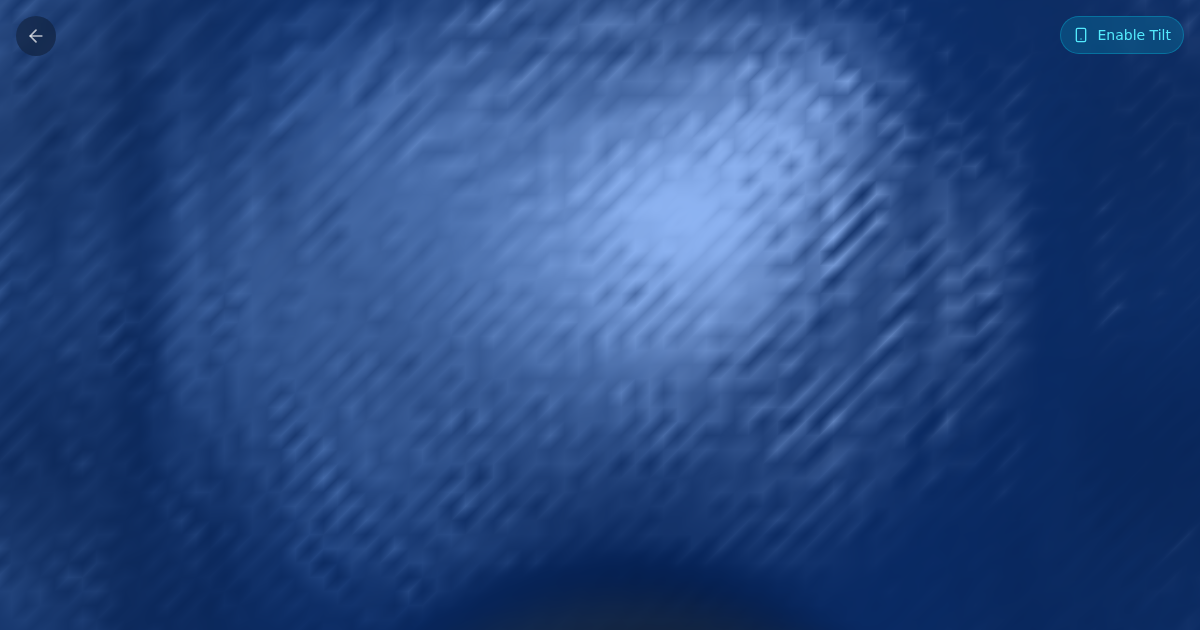
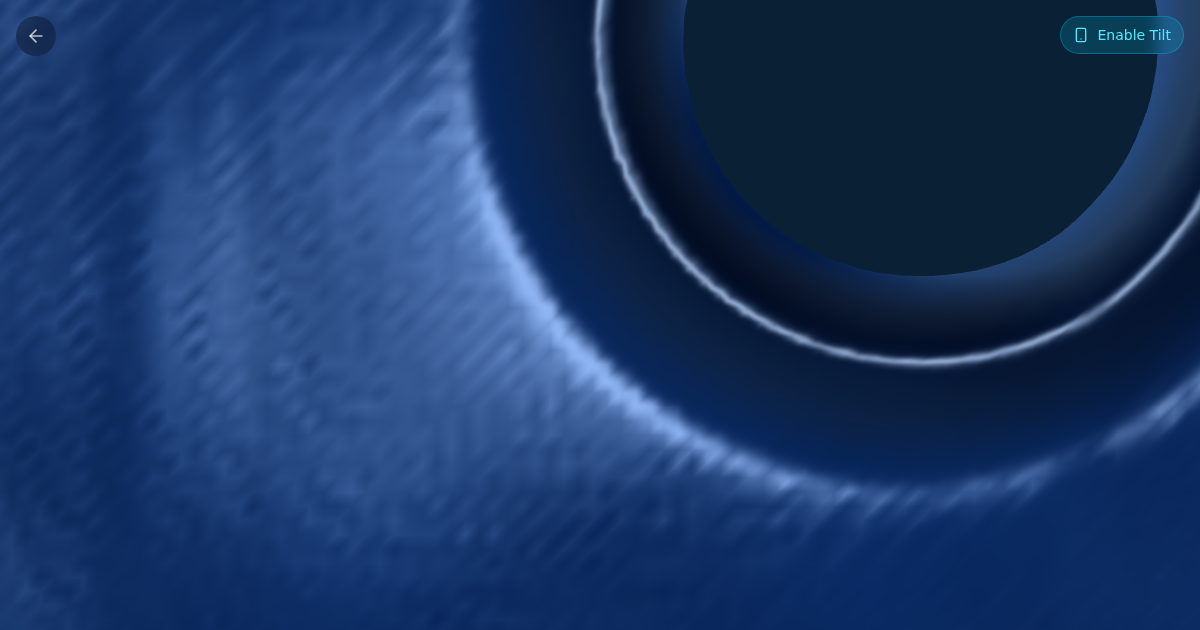
Fix Istanbul OG image to use History tab (avoids blank map)

diff --git a/scripts/generate-og-images.ts b/scripts/generate-og-images.ts
@@ -83,7 +83,14 @@ async function generateImages() {
 
   console.log('Server ready! Launching browser...\n')
 
-  const browser = await chromium.launch({ headless: true })
+  const browser = await chromium.launch({
+    headless: true,
+    args: [
+      '--disable-web-security',
+      '--disable-features=IsolateOrigins,site-per-process',
+      '--allow-running-insecure-content',
+    ]
+  })
 
   // Network errors to ignore (expected in headless/sandboxed environments)
   const ignoredErrors = [
@@ -112,7 +119,11 @@ async function generateImages() {
         }
       })
 
-      const url = `${BASE_URL}${app.path}`
+      // For Istanbul, use the history tab to avoid showing empty map iframes
+      let url = `${BASE_URL}${app.path}`
+      if (app.path.includes('istanbul')) {
+        url = `${BASE_URL}${app.path}#history`
+      }
       console.log(`Capturing ${url}...`)
 
       await page.goto(url, { waitUntil: 'networkidle' })
